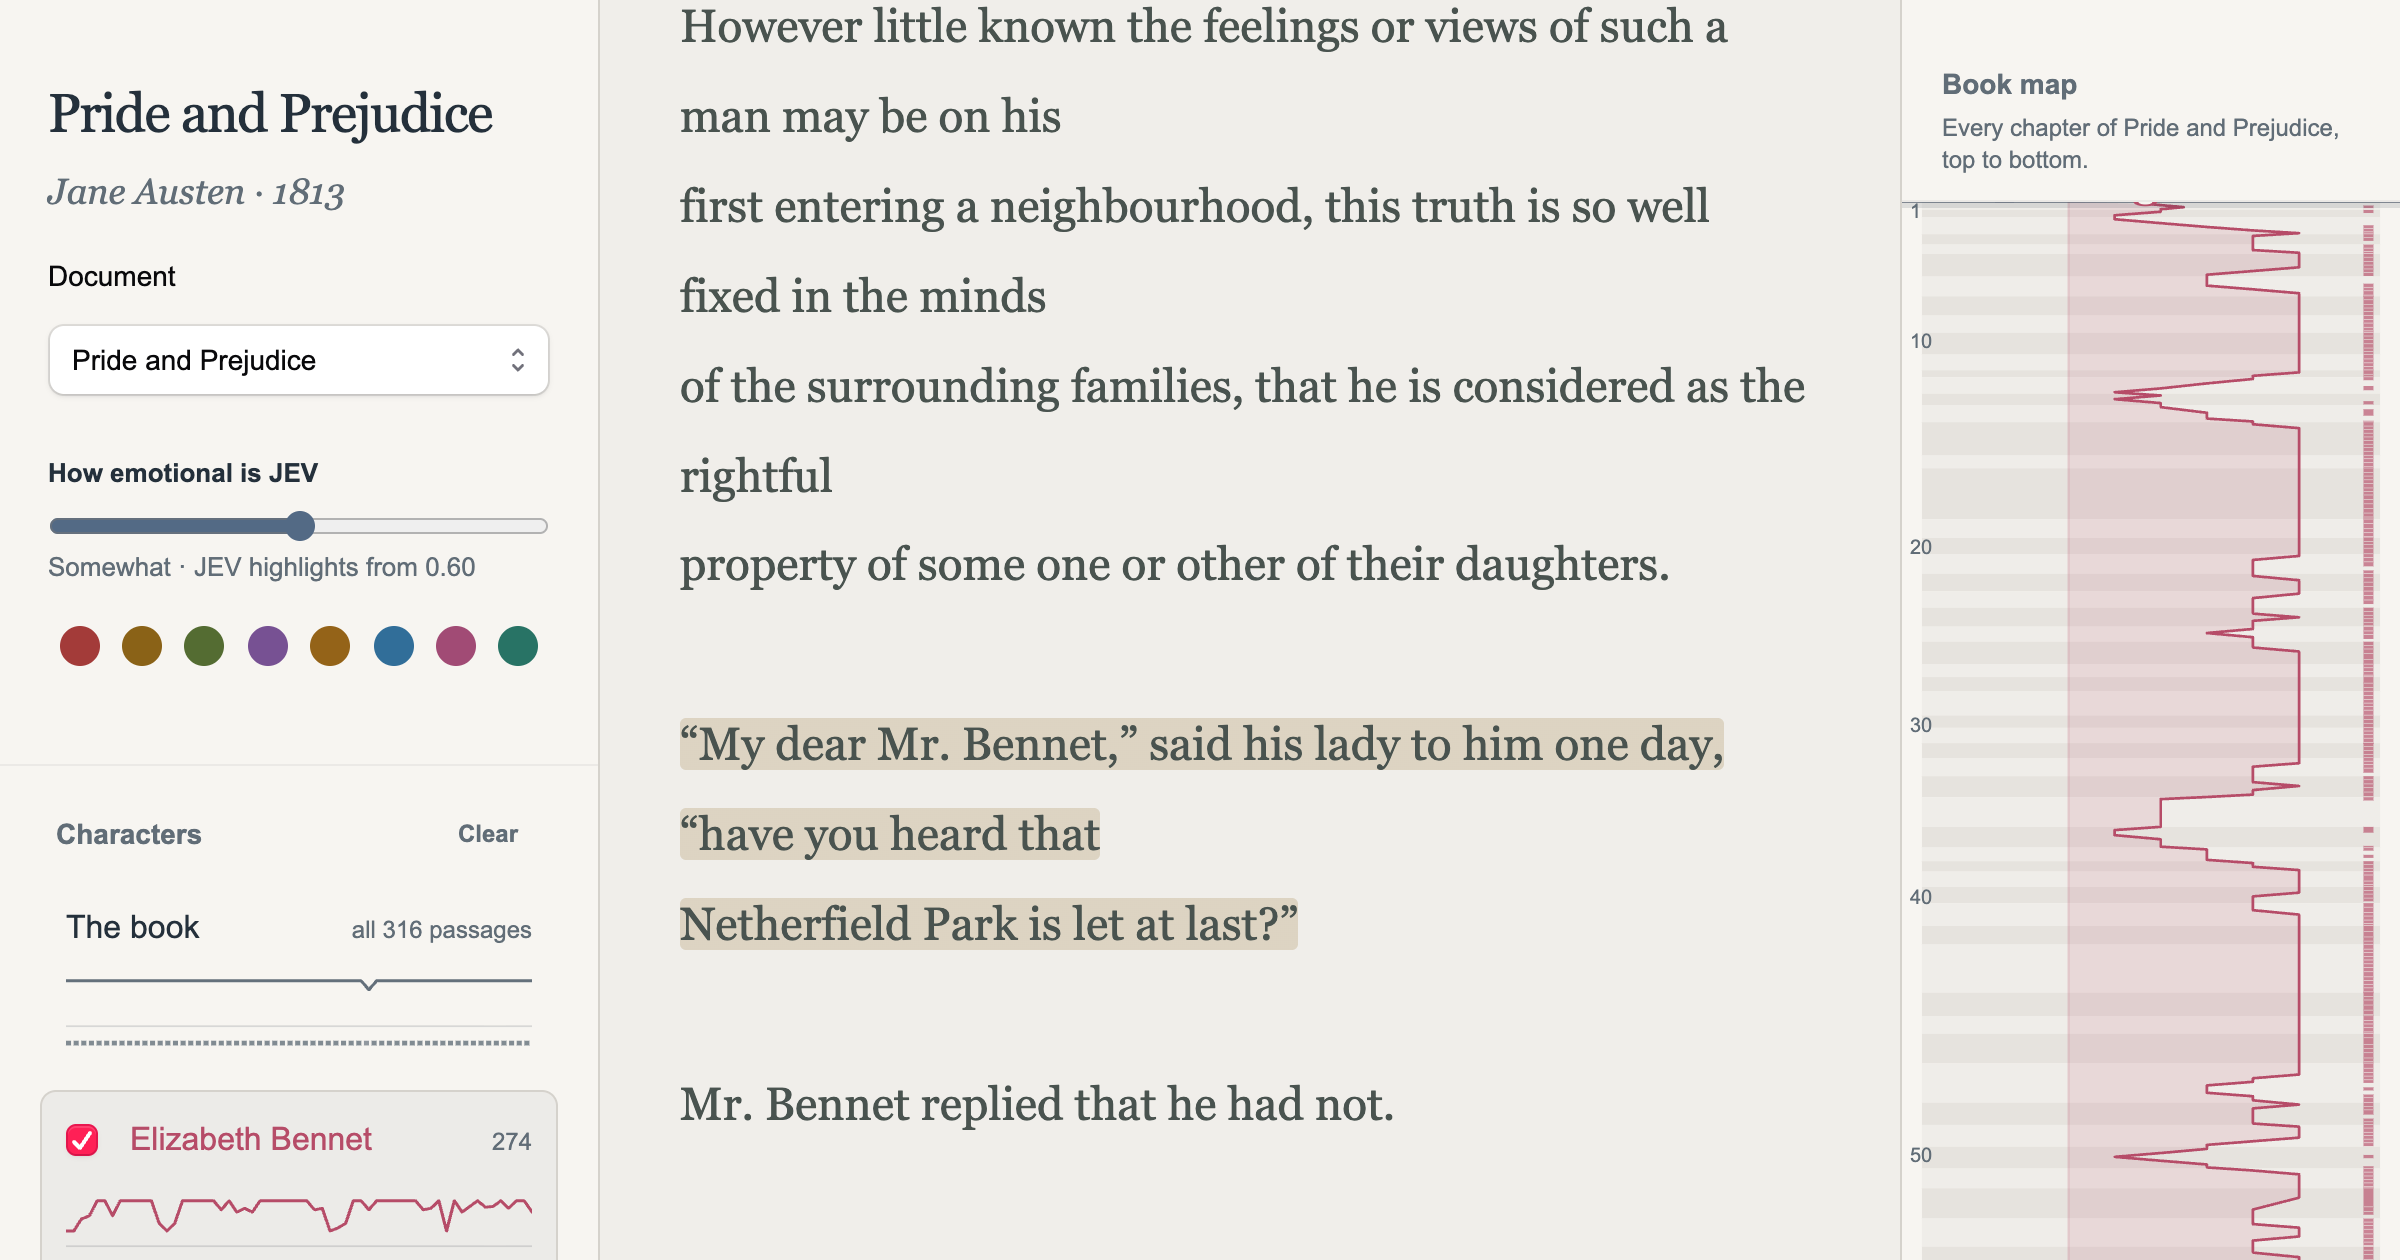
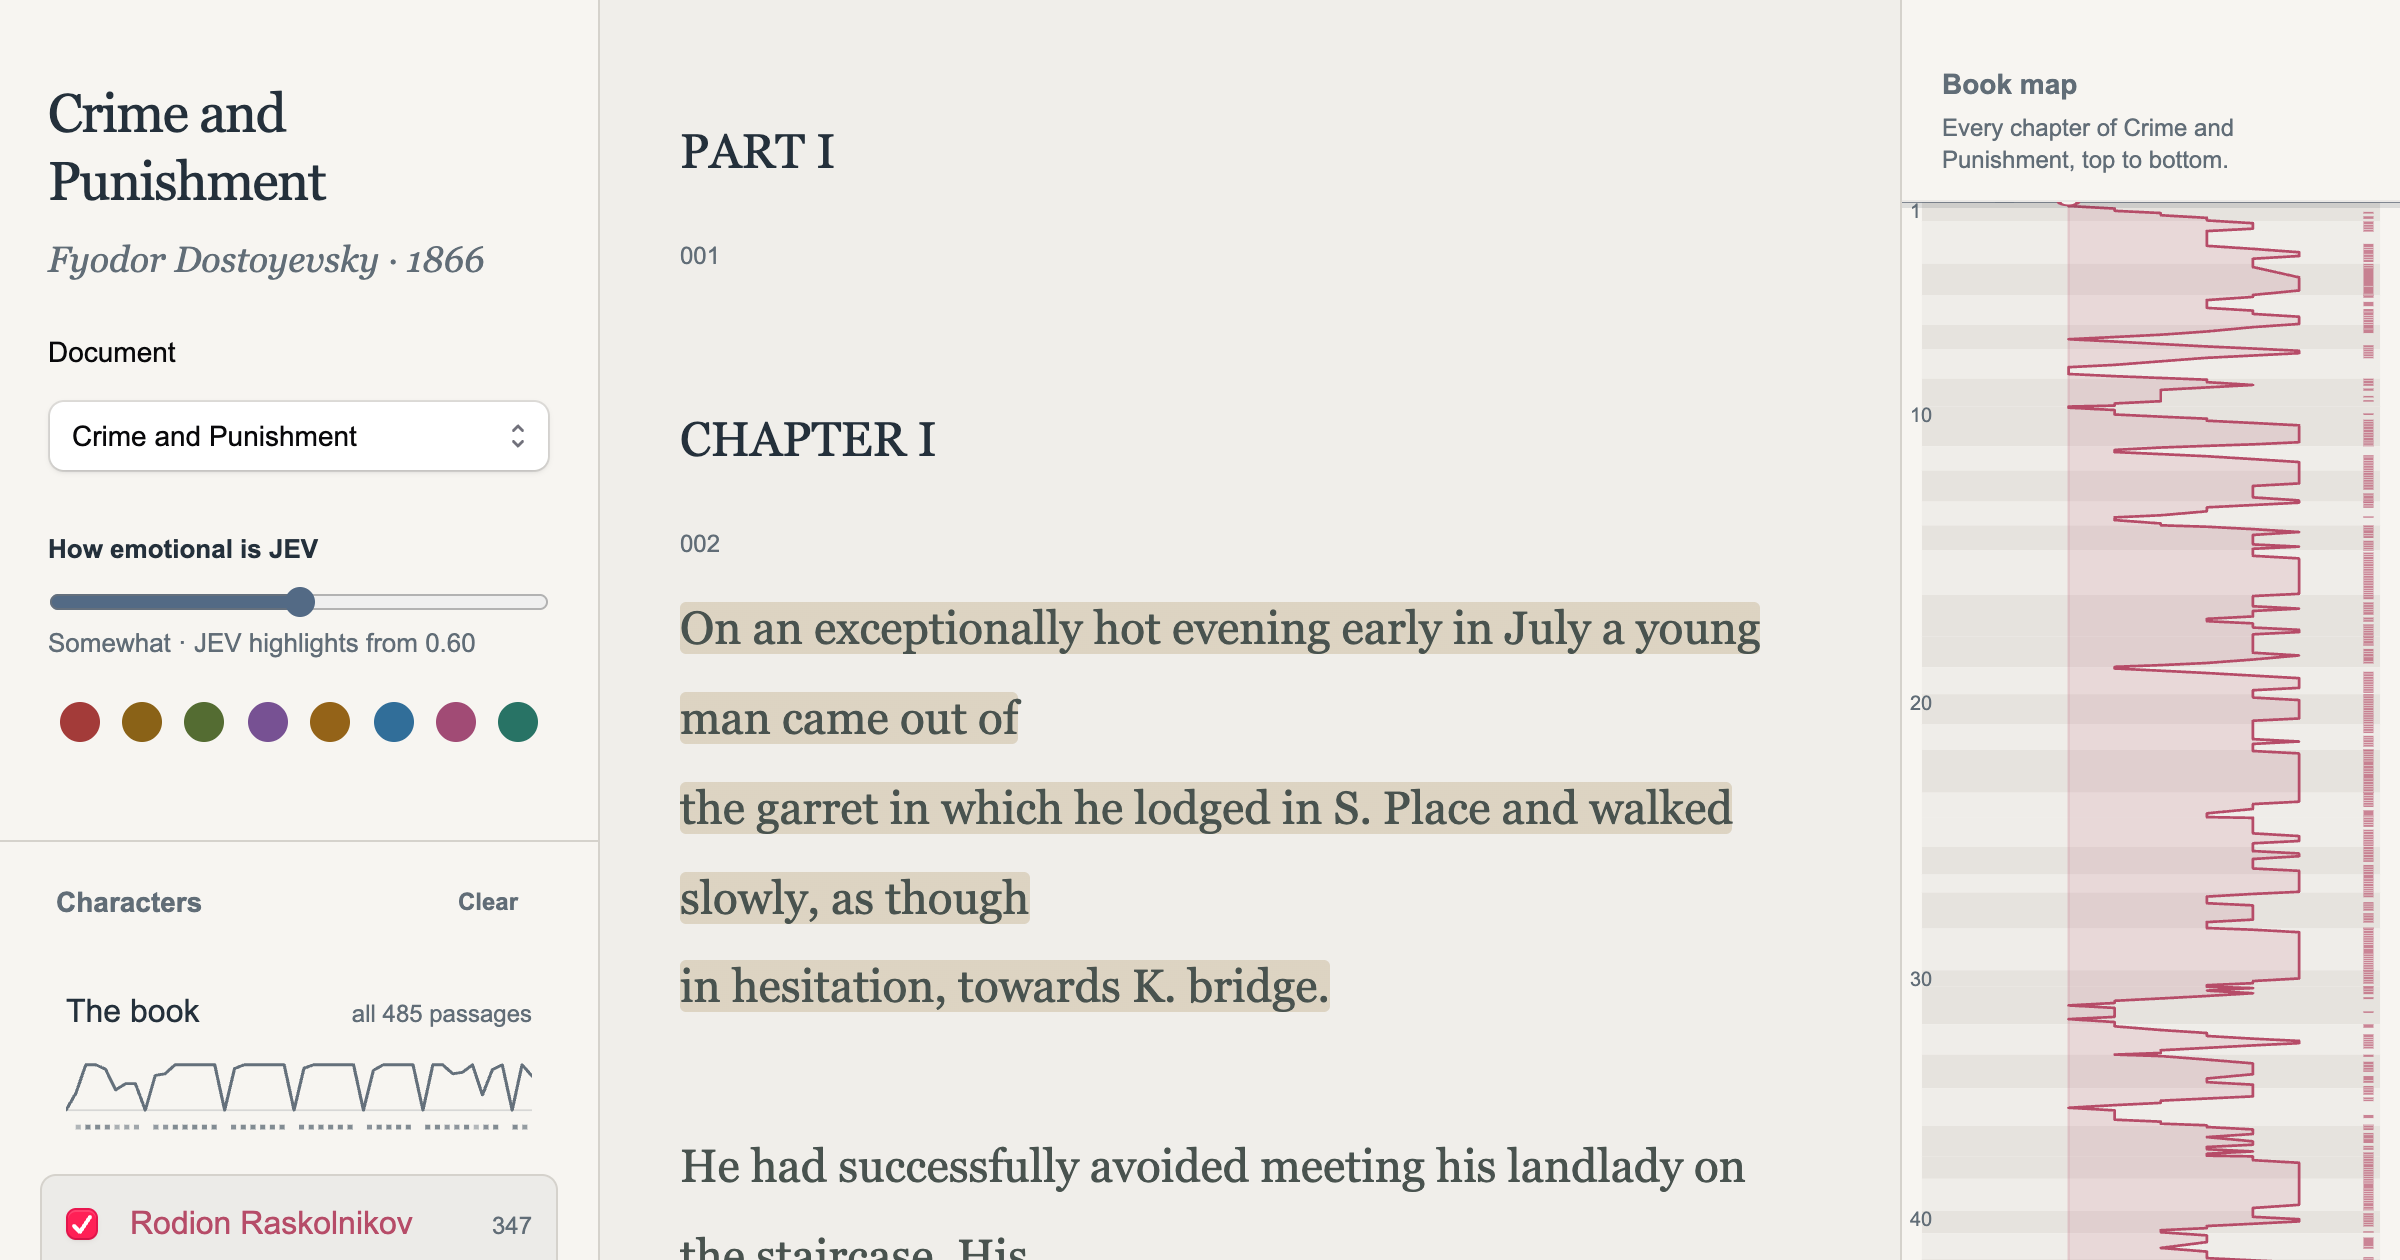
Regenerate social preview and demo capture for Crime and Punishment
The index no longer redirects to Pride and Prejudice, so the OG image and
capture scripts pointed at a character list that no longer loads there.

diff --git a/scripts/capture-og-image.ts b/scripts/capture-og-image.ts
@@ -11,11 +11,11 @@ try{
  const errors:string[]=[];page.on('pageerror',e=>errors.push(e.message));
  await page.goto(base,{waitUntil:'load'});
  await page.locator('.passage').last().waitFor();
- await page.getByRole('checkbox',{name:'Elizabeth Bennet',exact:false}).check();
+ await page.getByRole('checkbox',{name:'Rodion Raskolnikov',exact:false}).check();
  await page.locator('.rail-curve').first().waitFor();
  // JEV analyses the viewport on demand; give cached or live scores a bounded chance to land.
  const highlights=await page.locator('[data-jev-highlight]').first().waitFor({timeout:45_000}).then(()=>true,()=>false);
- await page.getByRole('checkbox',{name:'Elizabeth Bennet',exact:false}).blur();
+ await page.getByRole('checkbox',{name:'Rodion Raskolnikov',exact:false}).blur();
  await page.mouse.move(1199,629);
  await page.evaluate(()=>{for(const el of document.querySelectorAll('#channels nav > div'))el.scrollTop=0;});
  // Bring a real highlighted sentence into the cropped frame rather than advertising an empty page.

diff --git a/scripts/capture-demo-frames.ts b/scripts/capture-demo-frames.ts
@@ -4,7 +4,7 @@ import {chromium, type Page} from '@playwright/test';
 import {mkdir, rm, writeFile} from 'node:fs/promises';
 const base=process.env.READER_URL??'http://127.0.0.1:3000';
 const dir=process.env.FRAME_DIR??'data/runs/demo-frames';
-const W=1280,H=800,CAST=['Elizabeth Bennet','Jane Bennet']  // adjacent in the list, so both stay visible on screen;
+const W=1280,H=800,CAST=['Rodion Raskolnikov','Dmitri Razumihin']  // adjacent in the list, so both stay visible on screen;
 await rm(dir,{recursive:true,force:true});await mkdir(dir,{recursive:true});
 
 const browser=await chromium.launch({channel:'chrome',headless:true});
